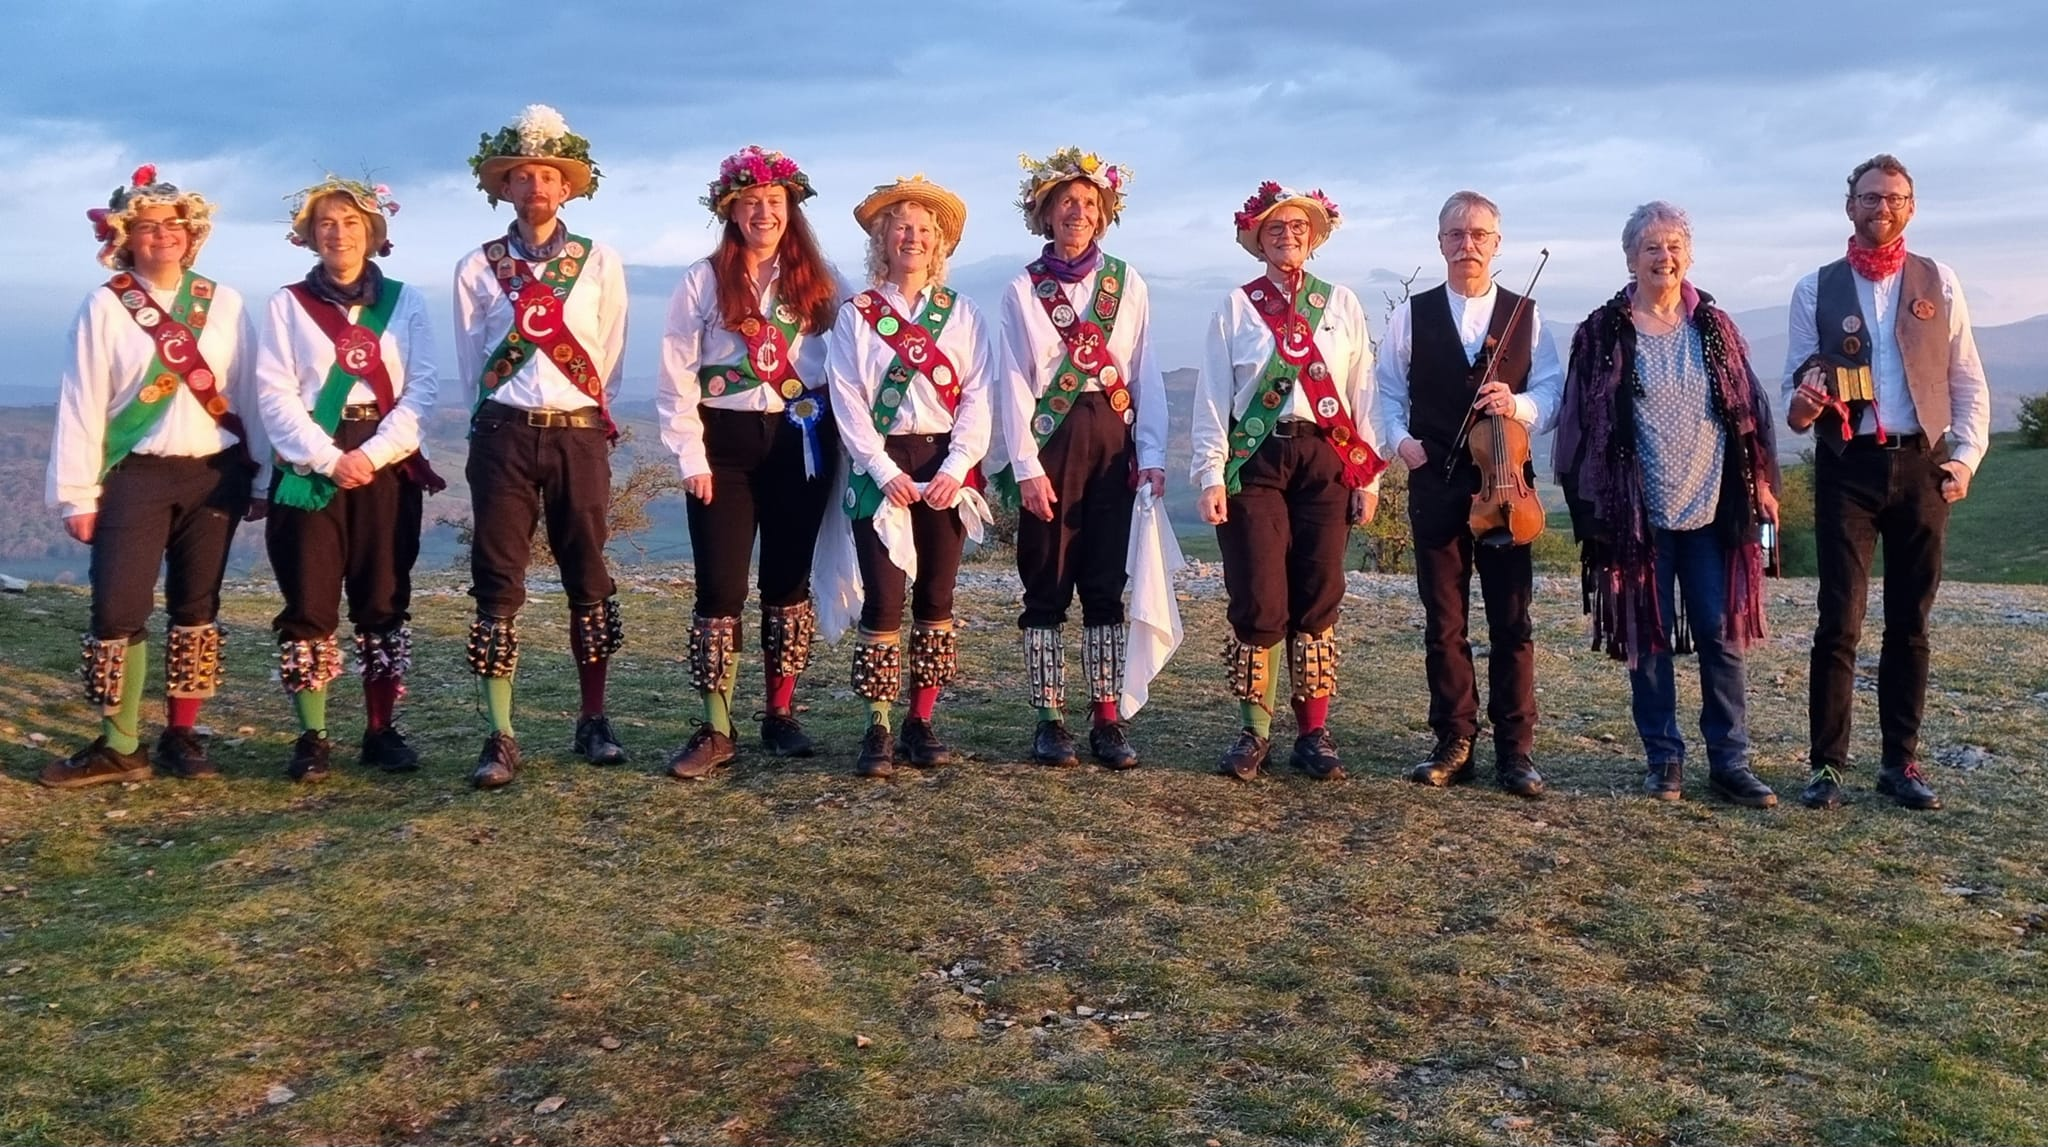
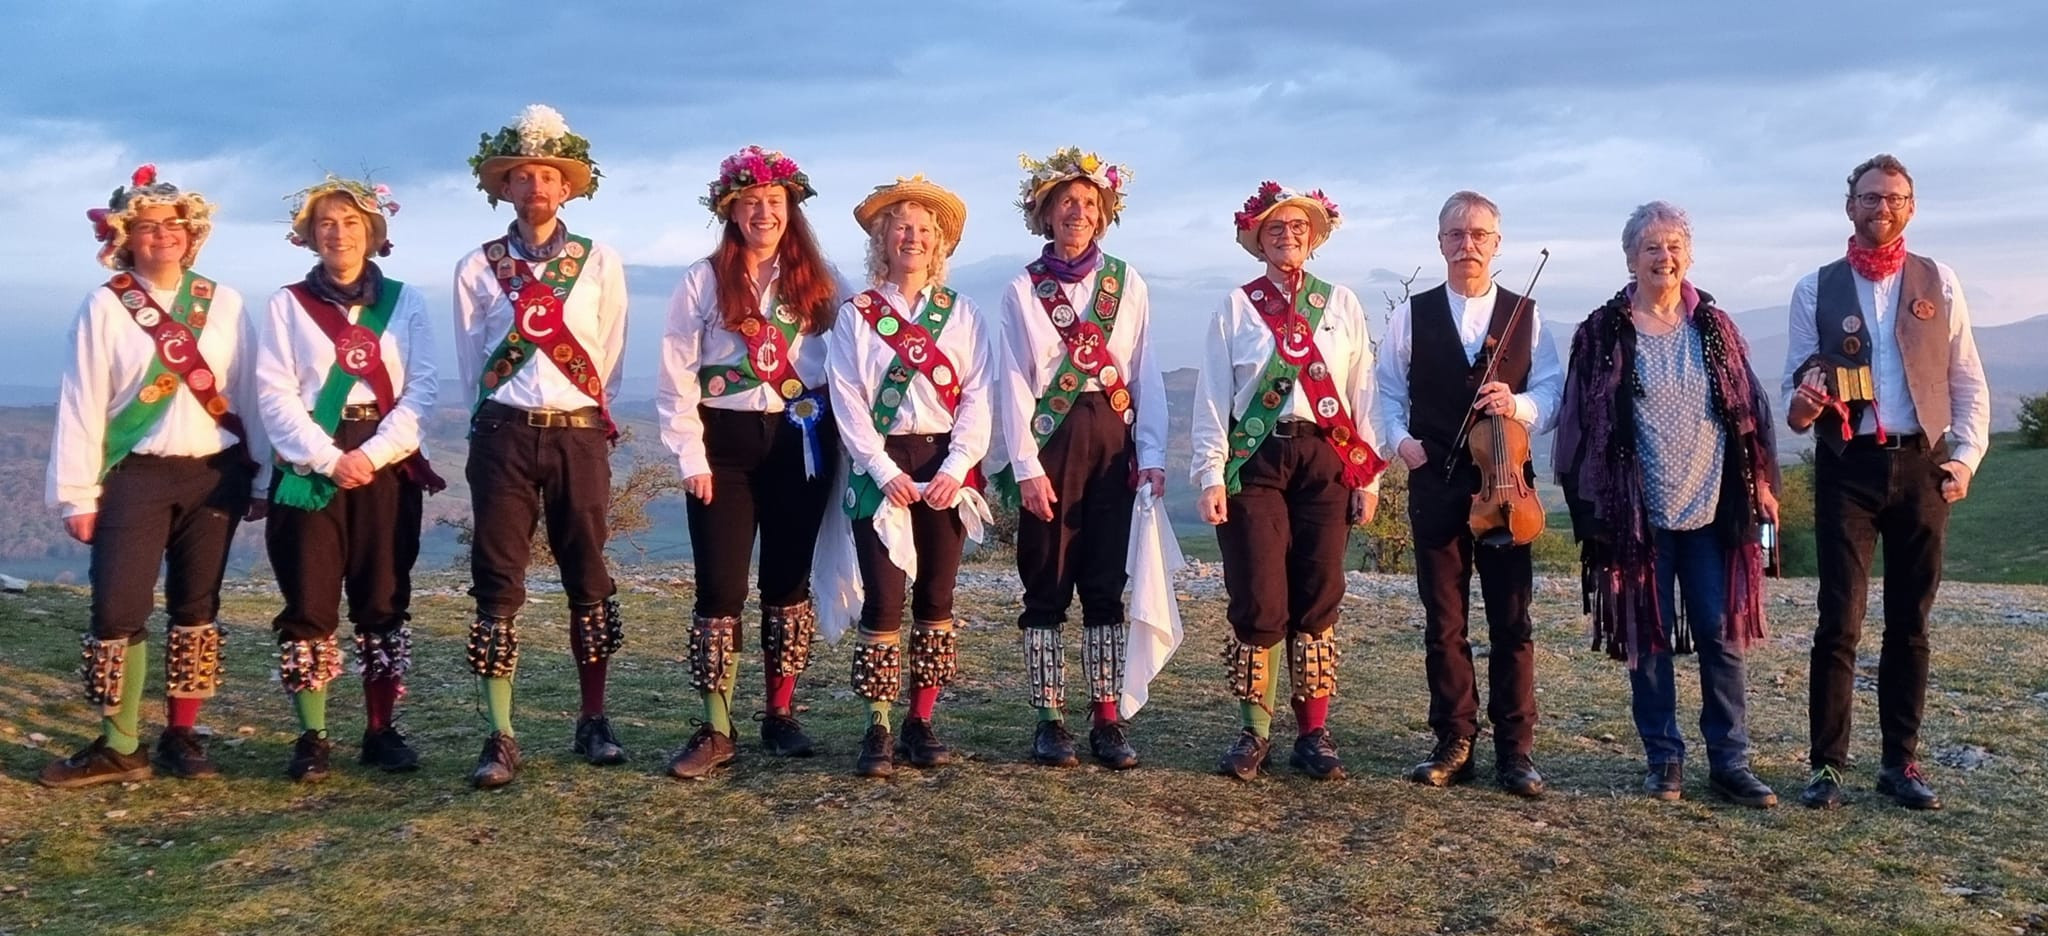
about-us page; improved footer

diff --git a/eleventy.config.js b/eleventy.config.js
@@ -27,16 +27,27 @@ export default function(eleventyConfig) {
     }
   );
 
+  eleventyConfig.addPairedShortcode("grid-list",
+    function(content) {
+      return '<grid-list>\n\n'+content+'\n\n</grid-list>\n';
+    }
+  );
+
   eleventyConfig.addPairedShortcode("event",
     /*
       The newlines in this string are important
       so that the markdown parser runs on the content
       and all tags are closed correctly.
     */
-    function(content, day, date, month) {
+    function(content, day, date, month, tbc) {
+      let tbcattr='';
+      if (tbc) {
+        tbcattr='" tbc="'+tbc;
+      }
       return '<calendar-event day="'+day
             +'" date="'+date
             +'" month="'+month
+            +tbcattr
             +'">\n\n'+content
             +'\n\n</calendar-event>\n';
     }

diff --git a/_src/style/main.css b/_src/style/main.css
@@ -25,6 +25,7 @@ html {
     line-height: 140%;
     font-family: sans-serif;
     color: var(--fg);
+    --link-fg: #05b;
 }
 
 @media (prefers-color-scheme: dark) {
@@ -69,7 +70,7 @@ h1 {
 h3 {
     margin: auto;
     max-width: 45rem;
-    padding: 1em 0 0.5em 0;
+    padding-block: 1em 0.5em;
 }
 
 dt {
@@ -85,11 +86,14 @@ dd + dt {
 p, dd, ul, .p {
     margin: auto;
     max-width: 45rem;
-    padding: 0rem;
 }
 
-main > p, footer > p, footer > .p {
+main > *, footer .flex {
     padding: clamp(0.5rem,3vw,1rem);
+}
+
+main > figure, main > div.block-embed, main > h2 {
+    padding: 0;
 }
 
 dd {

diff --git a/_src/index.md b/_src/index.md
@@ -2,44 +2,56 @@
 layout: standard
 ---
 
-![Eight jolly dancers in a line on a sunny day. They wear white shirts, black trousers, maroon and green baldricks and socks, and straw hats decorated with flowers.](assets/photos/lineup.jpg)
+![Eight jolly dancers in a line on a sunny day. They wear white shirts, black trousers, maroon and green baldricks and socks, and straw hats decorated with flowers.](assets/photos/lineup-scout-scar.jpg)
 
-Crook Morris is a mixed Morris side based in Kendal, Cumbria.
-We formed in 1981 from members of Crook Folk Dance Group.
+Crook Morris is a mixed Morris side based in Kendal, Cumbria. We perform a variety of dances from traditions all over England. ...?
 
-We perform dances from many different traditions all over England, including our own. Our total repertoire numbers around 50 dances, of which we choose about 30 each year to practice and perform.
 
-[More information and videos](dances)
+[More about us](about-us)
 
+You can also find us on social media:
 {% social-icons %}
 
 ## Where to see us
 
-{% event 'Wednesday' '21' 'April' %}
-St George's day, The Birdcage, Kendal
-
-With mumming!
-
-![St George's day poster](assets/posters/st-george.jpg)
-{% endevent %}
-
 {% event 'Weekend' '2 - 5' 'May' %}
-[Upton Folk Festival](https://www.uptonfolk.org/), Upton-upon-Severn, Worcestershire
+[Upton Folk Festival](https://uptonfolk.org/), Upton-upon-Severn, Worcestershire
+
+![Upton Folk Festival badge](/assets/badges/upton-folk-festival.png)
 {% endevent %}
 
 {% event 'Monday' '12' 'May' %}
-Somewhere in Levens at 7.45pm
+Evening dance-out, [The Hare and Hounds](https://www.hareandhoundslevens.co.uk/), Levens
 {% endevent %}
 
 {% event 'Monday' '19' 'May' %}
-[The Greyhound, Halton](https://thegreyhoundhalton.co.uk/) near Lancaster
+Evening dance-out, [The Greyhound](https://thegreyhoundhalton.co.uk/), Halton
+{% endevent %}
+
+{% event 'Wednesday' '25' 'June' %}
+Evening dance-out, [Heft](https://hefthighnewton.co.uk/), High Newton
+{% endevent %}
+
+{% event 'Wednesday' '25' 'June' 'To be confirmed' %}
+Evening dance-out, Kendal
+{% endevent %}
+
+{% event 'Monday' '7' 'July' %}
+Evening dance-out, Sedbergh
+{% endevent %}
+
+{% event 'Saturday' '10' 'October' %}
+[Shap Farmers' Market](https://www.theoldcourthouse.org/events/market/), The Old Courthouse, Shap
 {% endevent %}
 
 ## Book us for your event
 
-We are happy to come and dance at local pubs, events and festivals during the summer season (roughly April until September), subject to people's availability. We're lucky to have a fair number of dancers and musicians but it's always best to get us booked in early!
+We are happy to come and dance at local pubs, events and festivals during the summer season (roughly April until September.) We're lucky to have a fair number of dancers and musicians but it's always best to get us booked in early!
+
 
 [Contact our squire](mailto:squire@crookmorris.org.uk) to make an enquiry.
+
+![Crook in Border morris rags, brandishing sticks](/assets/photos/border-sticks.jpg)
 
 ## Get involved
 
@@ -49,10 +61,8 @@ We practice on Monday nights from October until March, then during the summer we
 
 If you'd like to try out morris or rapper dancing, look out for our taster day, held in Kendal in September before the practice season begins. All are welcome to come and have a go with no commitment.
 
-[Send us a message](mailto:squire@crookmorris.org.uk) to know more.
+[Send us a message](mailto:squire@crookmorris.org.uk) to find out more.
 
-## Practical information
-
-Our [members' area](members) is full of information for Crook members.
+![Crook dancing a Cotswold dance with waving white handkerchiefs](/assets/photos/hankies.jpg)
 
 

diff --git a/_src/about-us.md b/_src/about-us.md
@@ -1,0 +1,80 @@
+---
+layout: standard
+title: About us
+---
+We are an assorted group of people with various interests as well as morris dancing including walking, cycling, and many other hobbies. Lots of us have jobs and some are retired. Crook are very friendly and inclusive to all.
+
+As well as dancing with Crook, several of our members also dance with other teams. It's not just Morris dancing either, Clog Dancing, Appalachian Dancing and Garland Dancing are all part of their repertoire.
+
+We also enjoy ceilidh dancing, where we can really let our hair down, and our musicians never miss out on a chance to join a session in a pub! 
+
+### Why Crook?
+
+Crook Morris was originally formed in 1981 as an offshoot from the [Crook Folk Dance Group](https://crookfdg.co.uk/), which is still active in the small village of Crook outside Kendal.
+
+Members of Crook are sometimes known as Crooks. This is mostly a coincidence.
+
+## Our dances
+
+Every local Morris side develops its own distinctive style over time. In the early 20th century, many of these local traditions, especially in the Cotswolds, were captured and written down. These styles tend to define the Morris that people think of today, and our repertoire includes dances from these traditions, but they are just one part of a diverse range of performance dances from all over England.
+
+Our total repertoire numbers around 50 dances, from over 20 different traditions, including our own. We choose about 30 of these each year to practice and perform.
+
+### Cotswold
+
+This is the classic Morris dance style with dancers in flowery hats, waving white hankies or clashing sticks (or both!)
+
+@[youtube](https://www.youtube.com/watch?v=zJrp5-ChM2M&t=10s)
+
+Our repertoire includes dances from these Cotswold traditions:
+
+{% grid-list %}
+* Adderbury
+* Ascott-under-Wychwood
+* Bampton
+* Bledington
+* Bucknell
+* Crook (our own style!)
+* Ducklington (jigs)
+* Eynsham
+* Fieldtown
+* Headington
+* Ilmington
+* Lichfield
+* Oddington
+* Sherborne
+{% endgrid-list %}
+
+### Border
+
+Border dances originate from the Welsh Marches of Shropshire, Herefordshire and Worcestershire. Often danced in disguise, clashing sticks and making noise! 
+
+@[youtube](https://www.youtube.com/watch?v=Ex5RWn0tN4c)
+
+### Rapper
+
+Rapper dancing comes from the North East of England. Five dancers with flexible swords - fast and furious! 
+
+@[youtube](https://www.youtube.com/watch?v=4yeMeuvqaT4)
+
+### Mumming
+
+Mumming plays where the dragon is killed and Saint George always wins - in spite of everything.
+
+@[youtube](https://www.youtube.com/watch?v=jFUfFKP4m4U)
+
+## Statements?
+
+### Inclusivity
+
+We are proud to be an inclusive organisation. Membership is and always will be open to all, subject to a minimum age limit. Furthermore, we are proactive in standing against all forms of discrimination, both in the Morris world and in all sectors of our society. We want people from all backgrounds to enjoy our dancing, and not made to feel unwelcome or uncomfortable by any element of a performance or our community. 
+
+### Safeguarding
+
+?
+
+### Publicity
+
+We’re very happy for people to use photographs of our side but only after permission has been granted by Crook Morris. Please [contact us](mailto:publicity@crookmorris.org.uk) for further details.
+
+As we supply public entertainment, photographs of the side on this site or in our publicity may include members of the public, including children. If you have a concern about any image we use, please contact us with the details and we will replace it.
